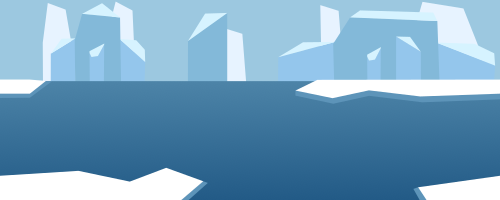
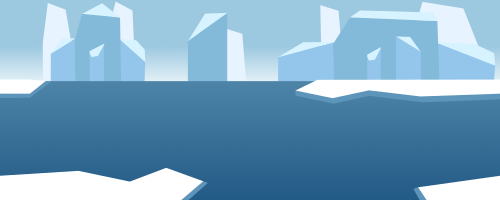
Added all backgrounds
With implementation included! (i mean obviously, right?)

diff --git a/css/sealclicker.css b/css/sealclicker.css
@@ -15,7 +15,7 @@
   justify-content: flex-start;
   align-items: center;
 
-  width: 320px;
+  width: 400px;
   height: 64px;
 
   border: solid;
@@ -33,6 +33,7 @@
 
   max-height: 100%;
   overflow-y: auto;
+  overflow-x: hidden;
 }
 
 .windows.upgrade-rows{
@@ -40,6 +41,7 @@
   
   width: 100%;
   height: 200px;
+  min-height: 200px;
 
   background-size: auto;
   background-repeat: repeat;
@@ -55,29 +57,29 @@
 }
 
 .windows .sealdisplay{
-    width: 256px;
-    height: 256px;
+  width: 256px;
+  height: 256px;
 
-    border: solid;
-    border-radius: 90px;
+  border: solid;
+  border-radius: 90px;
 
-    transform: scale(1);
-    transition: 0.05s ease;
+  transform: scale(1);
+  transition: 0.05s ease;
 }
 
 .windows .sealdisplay.click{
-    transform: scale(0.9);
-    transition: 0.05s ease;
+  transform: scale(0.9);
+  transition: 0.05s ease;
 }
 
 .autoclicker_upgrade .quantity{
-    justify-self: flex-end;
-    font-size: 56px;
-    
-    margin-left: auto;
-    margin-right: 5px;
+  justify-self: flex-end;
+  font-size: 56px;
 
-    margin-top: -10px;
+  margin-left: auto;
+  margin-right: 5px;
+
+  margin-top: -10px;
 }
 
 .general_upgrades{

diff --git a/scripts/sealclicker.js b/scripts/sealclicker.js
@@ -106,7 +106,6 @@ class DissapearingPopup{
         this.currentOpacity = lerp(this.currentOpacity, 0, value);
         this.element.style.opacity = this.currentOpacity;
         
-        console.log("aaa");
         requestAnimationFrame(this.fadePopup);
     }
 
@@ -237,7 +236,7 @@ class AutoclickerUpgrade extends Upgrade{
         `;
 
         this.htmlRowPrefab = `
-            <div class="windows upgrade-rows" id="${upgradeID}_upgrade-row" style="padding-top: 90px; background-image: url('${upgradeInformation.rowImg}');">
+            <div class="windows upgrade-rows" id="${upgradeID}_upgrade-row" style="padding-top: 70px; background-image: url('${upgradeInformation.rowImg}');">
                 <!-- Content added through 'sealclicker.js' -->
             </div>
         `;
@@ -245,7 +244,7 @@ class AutoclickerUpgrade extends Upgrade{
         autoclickerUpgradeRowParent.insertAdjacentHTML('beforeend', this.htmlRowPrefab);
 
         this.htmlRowItemPrefab = `
-            <img src='${upgradeInformation.rowIcon}' style="width: 32px; object-fit: contain;">
+            <img src='${upgradeInformation.rowIcon}' style="width: 48px; object-fit: contain;">
         `;
 
         autoclickerUpgradeParent.insertAdjacentHTML('beforeend', this.autoclickerPrefab);
@@ -355,7 +354,7 @@ function onUpgradeBought(upgrade)
 
 const totalScorePerSecond = document.getElementById("sealclicker-score_persecond");
 
-var normalSealInfo = new UpgradeInformation("Normal Seal", "This little guy will help you collect fish from the North Atlantic!", './imgs/SealClicker/NormalSeal.png', './imgs/SealClicker/PolarBackground.png', './imgs/SealClicker/NormalSeal.png');
+var normalSealInfo = new UpgradeInformation("Harbor Seal", "This little guy will help you collect fish from the North Atlantic!", './imgs/SealClicker/NormalSeal.png', './imgs/SealClicker/HarborBackground.png', './imgs/SealClicker/NormalSeal.png');
 var normalSealUpgrade = new AutoclickerUpgrade("normalseal", normalSealInfo, 10, 1.15, 0.3);
 normalSealUpgrade.setup();
 
@@ -363,19 +362,19 @@ var ribbonSealInfo = new UpgradeInformation("Ribbon Seal", "It has some quite co
 var ribbonSealUpgrade = new AutoclickerUpgrade("ribbonseal", ribbonSealInfo, 100, 1.15, 1);
 ribbonSealUpgrade.setup();
 
-var pocketSealInfo = new UpgradeInformation("Pocket Seal", "Straight out of a different universe", './imgs/SealClicker/PocketSeal.png', './imgs/SealClicker/Seal1.jpg', './imgs/AppIcons/AboutMe.png');
+var pocketSealInfo = new UpgradeInformation("Pocket Seal", "Straight out of a different universe", './imgs/SealClicker/PocketSeal.png', './imgs/SealClicker/PocketBackground.png', './imgs/SealClicker/PocketSeal.png');
 var pocketSealUpgrade = new AutoclickerUpgrade("pocketseal", pocketSealInfo, 1100, 1.15, 8);
 pocketSealUpgrade.setup();
 
-var realisticSealInfo = new UpgradeInformation("Realistic Seal", "A whole new dimension", './imgs/SealClicker/RealisticSeal.png', './imgs/SealClicker/Seal1.jpg', './imgs/AppIcons/AboutMe.png');
+var realisticSealInfo = new UpgradeInformation("Realistic Seal", "A whole new dimension", './imgs/SealClicker/RealisticSeal.png', './imgs/SealClicker/RealisticBackground.png', './imgs/SealClicker/RealisticSeal.png');
 var realisticSealUpgrade = new AutoclickerUpgrade("realisticseal", realisticSealInfo, 12000, 1.15, 47);
 realisticSealUpgrade.setup();
 
-var outOfWorldSealInfo = new UpgradeInformation("Out of World Seal", "A whole new dimension", './imgs/SealClicker/OutOfWorldSeal.png', './imgs/SealClicker/Seal1.jpg', './imgs/AppIcons/AboutMe.png');
+var outOfWorldSealInfo = new UpgradeInformation("Out of World Seal", "A whole new dimension", './imgs/SealClicker/OutOfWorldSeal.png', './imgs/SealClicker/DimensionalBackground.png', './imgs/SealClicker/OutOfWorldSeal.png');
 var outOfWorldSealUpgrade = new AutoclickerUpgrade("outofworldseal", outOfWorldSealInfo, 130000, 1.15, 260);
 outOfWorldSealUpgrade.setup();
 
-var mysticSealInfo = new UpgradeInformation("Mystic Seal", "The god of all seals", './imgs/SealClicker/MysticSeal.png', './imgs/SealClicker/Seal1.jpg', './imgs/AppIcons/AboutMe.png');
+var mysticSealInfo = new UpgradeInformation("Mystic Seal", "The god of all seals", './imgs/SealClicker/MysticSeal.png', './imgs/SealClicker/MysticBackground.png', './imgs/SealClicker/MysticSeal.png');
 var mysticSealUpgrade = new AutoclickerUpgrade("mysticseal", mysticSealInfo, 1400000, 1.15, 1400);
 mysticSealUpgrade.setup();
 

diff --git a/index.html b/index.html
@@ -119,7 +119,7 @@
 
                     <div class="vertical_separator"> </div>
 
-                    <div class="column scrollable_area" style="min-width: 320px; width: 320px; height: 100%; justify-content: flex-start; align-items: center;">   
+                    <div class="column scrollable_area" style="min-width: 400px; width: 400px; height: 100%; justify-content: flex-start; align-items: center;">   
                         <p class="store">Store</p>
 
                         <div class="horizontal_separator"> </div>

diff --git a/README.md b/README.md
@@ -7,9 +7,15 @@ https://freesound.org/s/203158/
 
 IMAGES USED:
 https://pixabay.com/photos/gray-seal-seal-helgoland-dick-chen-2952260/
+https://negativespace.co/coast-landscape/
+https://commons.wikimedia.org/wiki/File:A_Harp_Seal_in_the_Southern_Shore_of_Newfoundland.jpg
+https://www.uniguide.com/wp-content/uploads/2023/01/seal-meaning-symbolism.jpeg
+https://www.pickpik.com/earth-planet-space-cosmos-globe-astronomy-118162
+https://www.publicdomainpictures.net/en/view-image.php?image=413623&picture=stars-sky-space-background
 
 MODELS USED:
 https://opengameart.org/content/seal-low-poly
+https://sketchfab.com/3d-models/polar-pursuit-07ce619780b84479b5e87d5a03014292
 
 USED VIDEOS FOR SEAL-TOK:
 https://pixabay.com/videos/seal-to-stand-teeter-comfortable-94465/